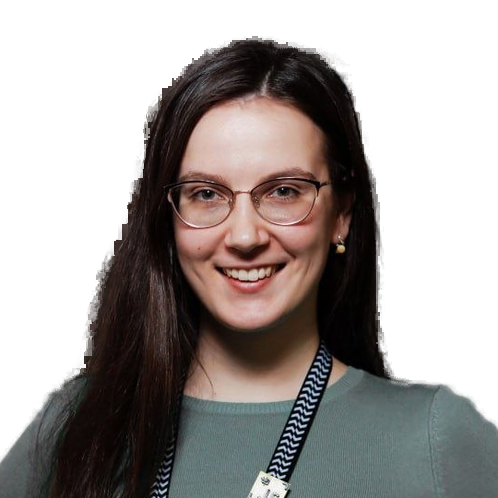
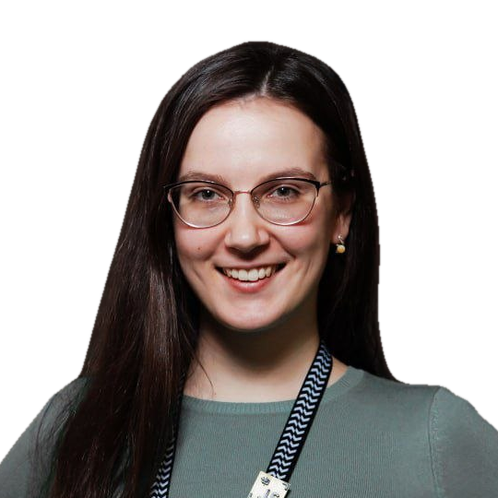
feat: add a background cutout tool and smooth Darina Pairel's portrait
Organizer photos must be transparent cut-outs, and the first cutout showed
jagged hair. tools/cutout wraps rembg with the settings that worked: the whole
photo is cut before cropping, without alpha matting, with a slightly shrunk and
blurred edge. pnpm cutout --setup builds its own Python venv from pinned
requirements, and the README documents setup, options and updates.

diff --git a/tools/cutout/cutout.py b/tools/cutout/cutout.py
@@ -1,0 +1,75 @@
+"""Вырезает фон портрета: прозрачный PNG для фото организаторов и авторов отзывов."""
+
+import argparse
+import sys
+from pathlib import Path
+
+from PIL import Image, ImageFilter
+from rembg import new_session, remove
+
+# Модель для людей: на портретах контур волос у неё ровнее, чем у общих моделей.
+DEFAULT_MODEL = 'u2net_human_seg'
+# Цвет подложки организатора (speakerAccent): превью показывает фото так, как на карточке.
+PREVIEW_BACKGROUND = (255, 78, 141, 255)
+
+
+def parse_crop(value: str) -> tuple[int, int, int]:
+    try:
+        left, top, size = (int(part) for part in value.split(','))
+    except ValueError as error:
+        raise argparse.ArgumentTypeError('кроп задаётся как x,y,сторона, например 85,140,540') from error
+    if size <= 0:
+        raise argparse.ArgumentTypeError('сторона кропа должна быть больше нуля')
+    return left, top, size
+
+
+def parse_args(argv: list[str]) -> argparse.Namespace:
+    parser = argparse.ArgumentParser(description='Вырезать фон портрета в прозрачный PNG.')
+    parser.add_argument('input', type=Path, help='исходное фото (jpg, png, webp)')
+    parser.add_argument('output', type=Path, help='куда сохранить PNG')
+    parser.add_argument('--crop', type=parse_crop, help='квадрат x,y,сторона в пикселях исходника')
+    parser.add_argument('--size', type=int, default=498, help='сторона итогового квадрата; 0 — без уменьшения')
+    parser.add_argument('--model', default=DEFAULT_MODEL, help=f'модель rembg, по умолчанию {DEFAULT_MODEL}')
+    parser.add_argument('--edge', type=float, default=0.8, help='размытие края в пикселях; 0 — без подрезки края')
+    parser.add_argument('--preview', action='store_true', help='сохранить рядом превью на розовой подложке')
+    return parser.parse_args(argv)
+
+
+def cut_out(image: Image.Image, model: str, edge: float) -> Image.Image:
+    # Без alpha matting: на тёмном фоне он даёт ступеньки по волосам, а post_process_mask сглаживает маску.
+    cut = remove(image, session=new_session(model), post_process_mask=True)
+    if edge > 0:
+        # Подрезаем край на пиксель и смягчаем: уходит тёмная кайма исходного фона.
+        alpha = cut.getchannel('A').filter(ImageFilter.MinFilter(3)).filter(ImageFilter.GaussianBlur(edge))
+        cut.putalpha(alpha)
+    return cut
+
+
+def main(argv: list[str]) -> int:
+    args = parse_args(argv)
+    if not args.input.is_file():
+        print(f'cutout: нет файла {args.input}', file=sys.stderr)
+        return 1
+    # Режем исходник целиком и только потом уменьшаем: на маленьком кадре маска выходит зубчатой.
+    cut = cut_out(Image.open(args.input).convert('RGB'), args.model, args.edge)
+    if args.crop:
+        left, top, side = args.crop
+        cut = cut.crop((left, top, left + side, top + side))
+    if args.size:
+        side = min(cut.size)
+        cut = cut.crop((0, 0, side, side)) if cut.width != cut.height else cut
+        cut = cut.resize((args.size, args.size), Image.LANCZOS)
+    args.output.parent.mkdir(parents=True, exist_ok=True)
+    cut.save(args.output)
+    print(f'cutout: {args.output} {cut.width}x{cut.height}')
+    if args.preview:
+        preview = Image.new('RGBA', cut.size, PREVIEW_BACKGROUND)
+        preview.alpha_composite(cut)
+        path = args.output.with_name(f'{args.output.stem}.preview.png')
+        preview.save(path)
+        print(f'cutout: превью {path}')
+    return 0
+
+
+if __name__ == '__main__':
+    sys.exit(main(sys.argv[1:]))

diff --git a/tools/cutout/README.md b/tools/cutout/README.md
@@ -1,0 +1,78 @@
+# Background cutout
+
+Removes the background from a portrait and writes a transparent PNG. The organizer cards draw a
+pink octagon behind the photo (`color.speakerAccent`), so an organizer photo must be a cut-out
+silhouette: an opaque photo hides the octagon. The same works for review and speaker portraits.
+
+It wraps [rembg](https://github.com/danielgatis/rembg) (MIT) in a small script with the settings
+that worked on our photos. Like `tools/visual`, it is not a workspace package and `pnpm lint` does
+not cover it.
+
+```
+tools/cutout/
+├── cutout.py         # the cutout itself: rembg + crop + resize + edge clean-up
+├── run.mjs           # pnpm entry point: finds or creates the Python environment, runs cutout.py
+├── requirements.txt  # exact versions of rembg[cpu] and everything it pulls in
+└── .venv/            # the Python environment, created by --setup (git-ignored)
+```
+
+## Setup (once per machine)
+
+Needs Python 3.11 or newer on the `PATH` (`python` on Windows, `python3` on macOS and Linux).
+
+```bash
+pnpm cutout --setup
+```
+
+This creates `tools/cutout/.venv` and installs `requirements.txt` into it (about 300 MB with
+`onnxruntime` and `scipy`). Nothing is installed globally.
+
+On the first cutout rembg downloads the model into `~/.u2net/` (`u2net_human_seg`, about 170 MB) and
+reuses it afterwards. Set `U2NET_HOME` to keep the models elsewhere.
+
+## Usage
+
+```bash
+pnpm cutout <input> <output.png> [--crop x,y,side] [--size 498] [--model name] [--edge 0.8] [--preview]
+```
+
+| Option | Default | What it does |
+|---|---|---|
+| `--crop x,y,side` | none | Square in pixels of the **original** photo to keep: left, top, side. |
+| `--size N` | `498` | Side of the resulting square. Organizer photos are 498×498 (2x of the card). `0` keeps the size. |
+| `--model name` | `u2net_human_seg` | rembg model. `isnet-general-use` is the alternative for objects and odd poses. |
+| `--edge px` | `0.8` | Shrinks the mask by a pixel and blurs its edge by this radius: removes the dark fringe of the old background. `0` turns it off. |
+| `--preview` | off | Also writes `<output>.preview.png`: the cutout on the organizer pink, to check the edge by eye. Do not commit it. |
+
+Example, the photo of a new organizer:
+
+```bash
+pnpm cutout "design/организаторы/Дарина Паирель/photo.jpg" packages/content/src/organizers/assets/darina-pairel.png --crop 85,140,540 --preview
+```
+
+Then open the preview, and if the edge is clean, delete it and reference the PNG from the content
+file (`photo: ../assets/darina-pairel.png`).
+
+## Why these settings
+
+- **The whole photo is cut first, then cropped and resized.** On a small crop the model sees less of
+  the person and the mask comes out jagged.
+- **No alpha matting.** On a dark background rembg's alpha matting turned the hair edge into
+  visible steps. `post_process_mask` plus the small edge blur gives a smooth outline instead.
+- **`u2net_human_seg` by default.** It is trained on people, and on our portraits it kept the hair
+  outline cleaner than `isnet-general-use`.
+
+Always look at the preview: hair against a background of the same colour can still lose strands.
+If it does, try `--model isnet-general-use` or ask for a photo on a lighter background.
+
+## Updating rembg
+
+`requirements.txt` pins every package, so the result does not change between machines. To update:
+
+```bash
+tools/cutout/.venv/Scripts/python -m pip install --upgrade "rembg[cpu]"   # macOS/Linux: .venv/bin/python
+tools/cutout/.venv/Scripts/python -m pip freeze > tools/cutout/requirements.txt
+```
+
+Keep the first comment line of `requirements.txt`, recut one known portrait and compare the edge
+before committing.

diff --git a/CLAUDE.md b/CLAUDE.md
@@ -48,6 +48,7 @@ changing the architecture they describe.
 │   ├── eslint-config/    # shared flat ESLint config (single source of truth)
 │   └── typescript-config/# shared tsconfig bases (single source of truth)
 ├── tools/visual/         # screenshot capture/compare for visual regression + check-targets.mjs, the hit-area gate (not a workspace package)
+├── tools/cutout/         # background removal for portraits (rembg in its own Python venv; not a workspace package)
 ├── adr/, specs/, plans/  # decision records, specs, task queues
 ├── docs/deploy.md        # one-off GitHub Pages and DNS setup
 ├── .github/workflows/    # deploy.yml: every check on push/PR, Pages deploy, nightly rebuild
@@ -159,6 +160,7 @@ Node & pnpm:
 | `pnpm lint`           | Lints **and** applies safe autofixes across all packages.           |
 | `pnpm test`           | Runs every package's vitest suite through turbo.                    |
 | `pnpm --filter website check:seo` | Gate over the built `dist` (run after `pnpm build`). |
+| `pnpm cutout <in> <out.png>` | Cuts the background out of a portrait (rembg); `--setup` once per machine. See `tools/cutout/README.md`. |
 | `pnpm check:a11y`     | WCAG 2.2 A and AA gate over the built `dist`: axe, keyboard, menu, reflow, both themes. |
 | `pnpm new:component`  | Scaffolds a new component in `packages/ui` + its story (plop).      |
 | `pnpm new:event <number>` | Draft event files in `packages/content`, `ru` and `en`.         |
@@ -196,7 +198,9 @@ Notes:
 - `BUILD_NOW` (an ISO date, e.g. `2026-07-01`) pins "now" for the homepage. It is
   for visual snapshots only, never set it for a real build. It is declared in
   `turbo.json` `build.env`, otherwise turbo's strict env mode drops it.
-- `pnpm lint` does not cover `tools/visual`; keep that tooling readable by hand.
+- `pnpm lint` does not cover `tools/visual` and `tools/cutout`; keep that tooling readable by hand.
+- Organizer portraits are transparent cut-outs: make them with `pnpm cutout` (Python, `tools/cutout/.venv`,
+  git-ignored; versions pinned in its `requirements.txt`). Check the `--preview` before committing.
 
 ---
 

diff --git a/packages/content/README.md b/packages/content/README.md
@@ -190,7 +190,7 @@ event: "32"
 |---|---|---|---|
 | Фото спикера | `speakers/assets/<имя>.jpg` | `photo: ../assets/<имя>.jpg` | `.jpg` или `.png`. |
 | Обложка доклада | `talks/assets/<имя>.jpg` | `cover: ../assets/<имя>.jpg` | Карточка анонса, лучше 1200×630 или 16:9: широкая обложка становится и картинкой для соцсетей. |
-| Фото организатора | `organizers/assets/<имя>.png` | `photo: ../assets/<имя>.png` | Вырезанный силуэт на прозрачном фоне: непрозрачное фото закроет розовый восьмиугольник. Квадрат от 500×500. |
+| Фото организатора | `organizers/assets/<имя>.png` | `photo: ../assets/<имя>.png` | Вырезанный силуэт на прозрачном фоне: непрозрачное фото закроет розовый восьмиугольник. Квадрат от 500×500. Фон вырезает `pnpm cutout <фото> <png> --preview`, см. `tools/cutout/README.md`. |
 | Логотип партнёра | `partners/assets/<имя>.svg` | `logo: ../assets/<имя>.svg` | `.svg` или `.png`. |
 
 - Имя файла — как у записи: латиница в нижнем регистре, цифры и дефисы.
